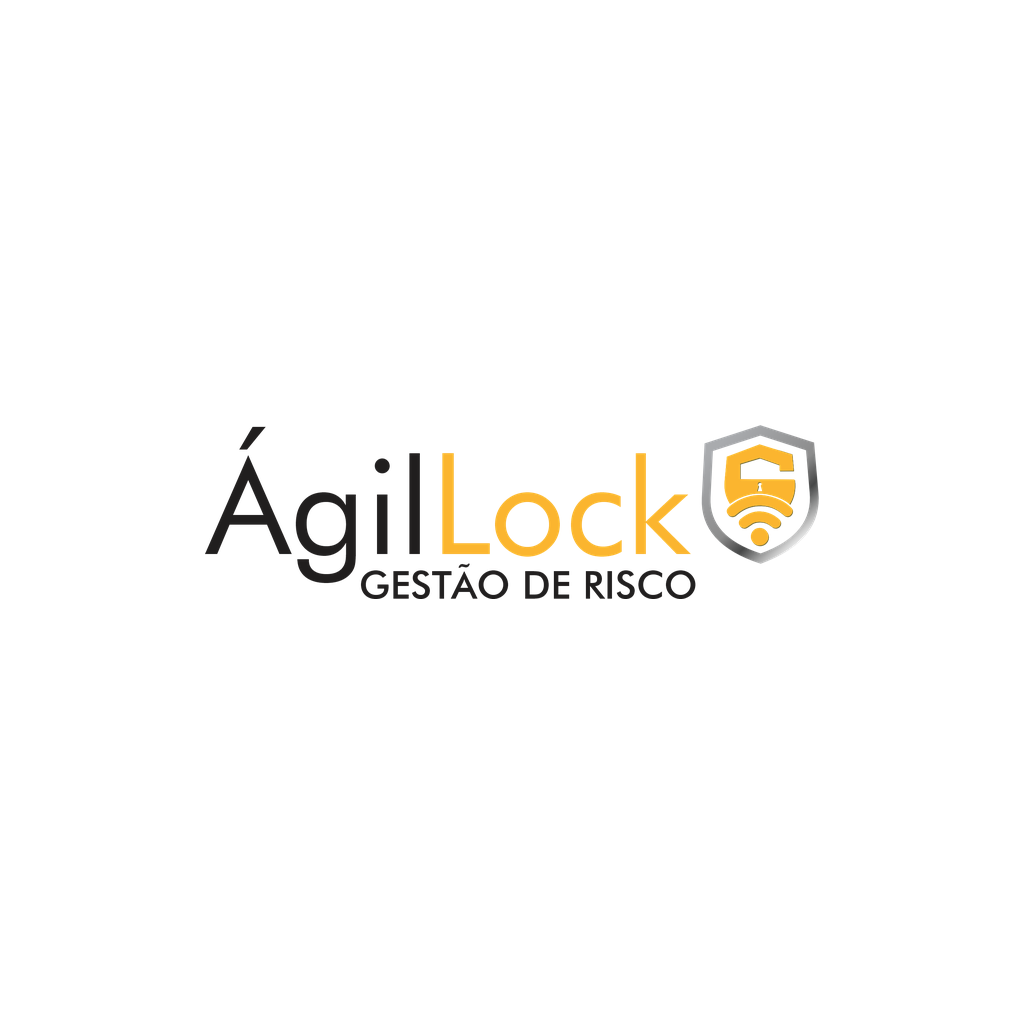
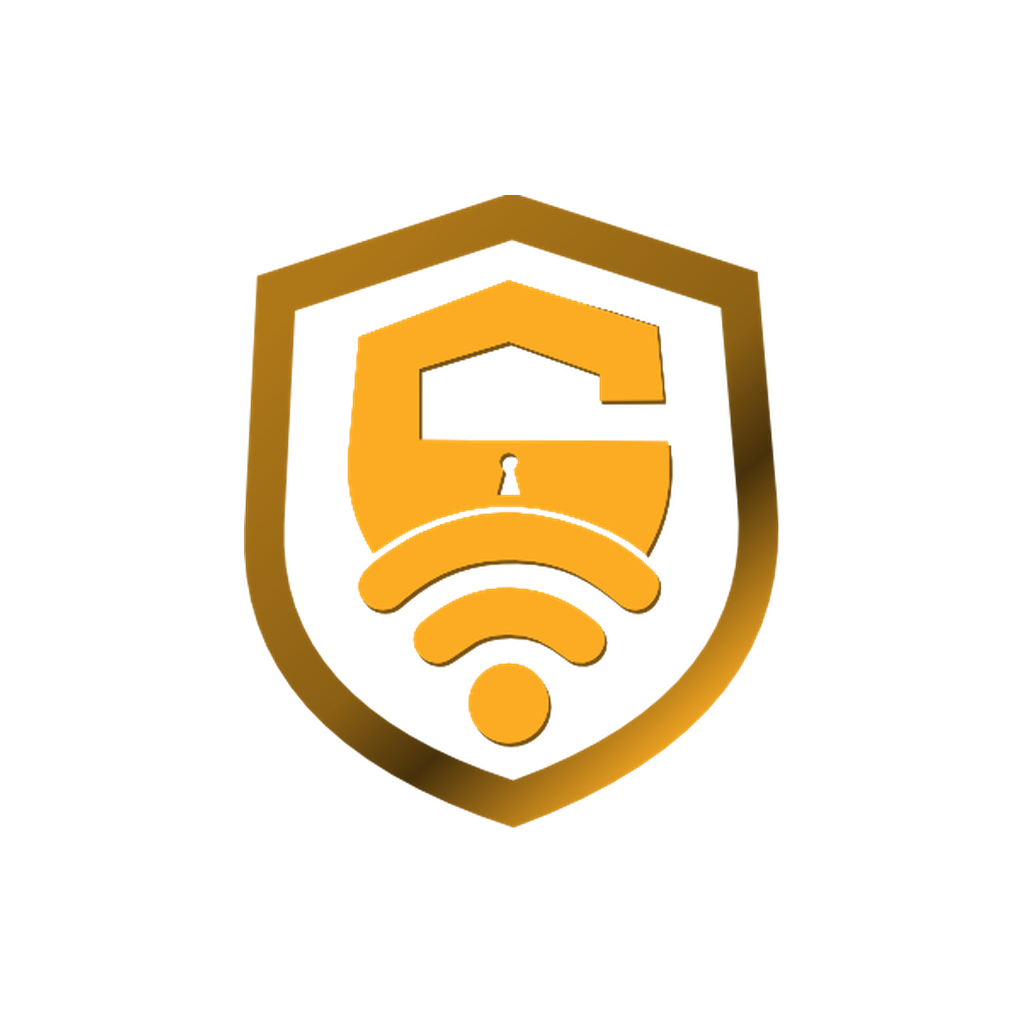
feat: Novo visual de marca - ícone escudo amarelo em preto, splash preta e notificação com escudo
- icon/adaptive-icon: emblema do escudo recolorido em amarelo (borda inclusa) em fundo preto
- splash: fundo preto com logo branco "ÁgilLock"
- notification-icon: silhueta branca do escudo
- favicon: escudo amarelo em fundo preto
- app.json: splash e adaptiveIcon backgroundColor para #000000
- scripts geradores atualizados

Changed region(s): [[0.1875, 0.1875, 0.8125, 0.8125]]

diff --git a/app/scripts/generate_icons.py b/app/scripts/generate_icons.py
@@ -1,6 +1,9 @@
 """
-Gera os assets do app (ícone, adaptive-icon, splash e favicon) a partir
-do logo da marca. Fundo branco, coerente com app.json.
+Gera os assets do app:
+- icon.png / adaptive-icon.png: emblema do escudo recolorido em amarelo
+  (borda inclusive) sobre fundo preto.
+- splash-icon.png: logo ÁgilLock completo (transparente, splash usa fundo branco).
+- favicon.png: símbolo (web).
 
 Uso: python scripts/generate_icons.py
 """
@@ -8,56 +11,76 @@ from PIL import Image
 import os
 
 ASSETS = os.path.join(os.path.dirname(__file__), "..", "assets")
-LOGO = os.path.join(ASSETS, "logo_agillock_new.png")      # Ágil(preto) + Lock(amarelo) + escudo
-SYMBOL = os.path.join(ASSETS, "agillock_new_symbol.png")  # só o escudo (quadrado)
+LOGO = os.path.join(ASSETS, "logo_agillock_new.png")            # Ágil(preto) + Lock(amarelo) — fundo claro
+LOGO_WHITE = os.path.join(ASSETS, "logo_agillock_white_new.png")  # Ágil(branco) + Lock(amarelo) — fundo escuro
+SYMBOL = os.path.join(ASSETS, "agillock_new_symbol.png")        # só o escudo (quadrado)
 
 WHITE = (255, 255, 255, 255)
+BLACK = (0, 0, 0, 255)
+# amarelo da marca #F5A623 em HSV (0-255): H=27, S=219
+AMBER_H, AMBER_S = 27, 219
 
 
 def trim(im):
-    """Recorta a área não-transparente."""
     bbox = im.split()[3].getbbox()
     return im.crop(bbox) if bbox else im
 
 
-def place_centered(canvas_size, content, target_w_ratio, bg=None):
-    """Cria um canvas quadrado e centraliza o content escalado por largura."""
-    W = canvas_size
-    base = Image.new("RGBA", (W, W), bg if bg else (0, 0, 0, 0))
-    target_w = int(W * target_w_ratio)
-    ratio = content.height / content.width
-    target_h = int(target_w * ratio)
-    resized = content.resize((target_w, target_h), Image.LANCZOS)
-    x = (W - target_w) // 2
-    y = (W - target_h) // 2
-    base.alpha_composite(resized, (x, y))
+def recolor_amber(im):
+    """Mantém o brilho (V) e troca tom/saturação para o amarelo -> a borda
+    prata do escudo vira amarela com o mesmo relevo."""
+    alpha = im.split()[3]
+    h, s, v = im.convert("RGB").convert("HSV").split()
+    rgb = Image.merge("HSV", (Image.new("L", im.size, AMBER_H),
+                              Image.new("L", im.size, AMBER_S), v)).convert("RGB")
+    out = rgb.convert("RGBA")
+    out.putalpha(alpha)
+    return out
+
+
+def place_by_width(canvas_px, content, w_ratio, bg=(0, 0, 0, 0)):
+    """Centraliza o content escalado pela largura."""
+    base = Image.new("RGBA", (canvas_px, canvas_px), bg)
+    tw = int(canvas_px * w_ratio)
+    th = int(tw * content.height / content.width)
+    base.alpha_composite(content.resize((tw, th), Image.LANCZOS),
+                         ((canvas_px - tw) // 2, (canvas_px - th) // 2))
+    return base
+
+
+def place_by_max(canvas_px, content, ratio, bg=(0, 0, 0, 0)):
+    """Centraliza o content cabendo numa caixa (escala pelo maior lado)."""
+    base = Image.new("RGBA", (canvas_px, canvas_px), bg)
+    box = int(canvas_px * ratio)
+    scale = min(box / content.width, box / content.height)
+    tw, th = int(content.width * scale), int(content.height * scale)
+    base.alpha_composite(content.resize((tw, th), Image.LANCZOS),
+                         ((canvas_px - tw) // 2, (canvas_px - th) // 2))
     return base
 
 
 def main():
-    logo = trim(Image.open(LOGO).convert("RGBA"))
+    logo_white = trim(Image.open(LOGO_WHITE).convert("RGBA"))
     symbol = trim(Image.open(SYMBOL).convert("RGBA"))
+    emblem = recolor_amber(symbol)
 
-    # 1) icon.png — 1024x1024, fundo branco (iOS exige opaco)
-    icon = place_centered(1024, logo, 0.82, bg=WHITE)
-    icon.convert("RGB").save(os.path.join(ASSETS, "icon.png"))
+    # 1) icon.png — fundo preto + emblema amarelo (iOS exige opaco)
+    place_by_max(1024, emblem, 0.78, bg=BLACK).convert("RGB").save(
+        os.path.join(ASSETS, "icon.png"))
     print("icon.png OK")
 
-    # 2) adaptive-icon.png — 1024x1024, foreground transparente dentro da
-    #    safe zone (~66%); backgroundColor (#ffffff) vem do app.json
-    adaptive = place_centered(1024, logo, 0.60)
-    adaptive.save(os.path.join(ASSETS, "adaptive-icon.png"))
+    # 2) adaptive-icon.png — emblema amarelo transparente dentro da safe zone;
+    #    backgroundColor (#000000) vem do app.json
+    place_by_max(1024, emblem, 0.62).save(os.path.join(ASSETS, "adaptive-icon.png"))
     print("adaptive-icon.png OK")
 
-    # 3) splash-icon.png — logo centralizado, transparente (splash usa
-    #    backgroundColor #ffffff + resizeMode contain)
-    splash = place_centered(1024, logo, 0.74)
-    splash.save(os.path.join(ASSETS, "splash-icon.png"))
+    # 3) splash-icon.png — logo branco (splash usa fundo PRETO + resizeMode contain)
+    place_by_width(1024, logo_white, 0.74).save(os.path.join(ASSETS, "splash-icon.png"))
     print("splash-icon.png OK")
 
-    # 4) favicon.png — web; usa o símbolo (quadrado fica melhor em tamanho mínimo)
-    favicon = place_centered(64, symbol, 0.82, bg=WHITE)
-    favicon.convert("RGB").save(os.path.join(ASSETS, "favicon.png"))
+    # 4) favicon.png — web; emblema amarelo em fundo preto (combina com o ícone)
+    place_by_max(64, emblem, 0.82, bg=BLACK).convert("RGB").save(
+        os.path.join(ASSETS, "favicon.png"))
     print("favicon.png OK")
 
 

diff --git a/app/scripts/generate_notification_icon.py b/app/scripts/generate_notification_icon.py
@@ -1,9 +1,10 @@
 """
-Gera o icone de notificacao do Android (notification-icon.png).
-Android usa apenas o canal alpha: a silhueta e desenhada em branco e
-tingida pela cor 'color' do expo-notifications. Por isso geramos so o
-nome 'AgilLock' (sem subtitulo e sem escudo) como silhueta branca
-sobre fundo transparente.
+Gera o ícone de notificação do Android (notification-icon.png).
+Android usa apenas o canal alpha: a silhueta é desenhada em branco e
+tingida pela cor 'color' do expo-notifications. Usamos o emblema do
+escudo como silhueta branca sobre fundo transparente -- os vãos internos
+(buraco da fechadura, arcos do wifi, campo entre borda e cadeado) ficam
+transparentes e preservam o desenho.
 
 Uso: python scripts/generate_notification_icon.py
 """
@@ -11,99 +12,28 @@ from PIL import Image
 import os
 
 ASSETS = os.path.join(os.path.dirname(__file__), "..", "assets")
-LOGO = os.path.join(ASSETS, "logo_agillock_new.png")
+SYMBOL = os.path.join(ASSETS, "agillock_new_symbol.png")
 OUT = os.path.join(ASSETS, "notification-icon.png")
 
 
+def trim(im):
+    bbox = im.split()[3].getbbox()
+    return im.crop(bbox) if bbox else im
+
+
 def main():
-    logo = Image.open(LOGO).convert("RGBA")
-    alpha = logo.split()[3]
-    W, H = logo.size
+    symbol = trim(Image.open(SYMBOL).convert("RGBA"))
 
-    # max alpha por coluna (sem numpy)
-    col_max = [0] * W
-    px = alpha.load()
-    for x in range(W):
-        m = 0
-        for y in range(0, H, 2):  # passo 2: rapido e suficiente
-            v = px[x, y]
-            if v > m:
-                m = v
-                if m == 255:
-                    break
-        col_max[x] = m
+    # silhueta branca a partir do alpha do emblema
+    white = Image.new("RGBA", symbol.size, (255, 255, 255, 0))
+    white.putalpha(symbol.split()[3])
 
-    # acha o maior vao transparente no terco direito (separa "Lock" do escudo)
-    search_start = int(W * 0.65)
-    best_len, best_start = 0, None
-    run_len, run_start = 0, None
-    for x in range(search_start, W):
-        if col_max[x] < 10:
-            if run_start is None:
-                run_start = x
-            run_len += 1
-            if run_len > best_len:
-                best_len, best_start = run_len, run_start
-        else:
-            run_len, run_start = 0, None
-    gap_x = best_start if best_start else W
-    print(f"corte do escudo em x={gap_x} (W={W})")
-
-    # recorta a regiao do texto (sem o escudo)
-    word = logo.crop((0, 0, gap_x, H))
-    wpx = word.load()
-    ww, wh = word.size
-
-    # mascara binaria de conteudo
-    THR = 30
-    solid = [[wpx[x, y][3] > THR for x in range(ww)] for y in range(wh)]
-
-    # flood-fill 8-conexo a partir do corpo da palavra (y < SEED_Y).
-    # O "g" e seu rabo estao conectados ao corpo -> mantidos.
-    # As letras do subtitulo "GESTAO DE RISCO" estao soltas -> removidas.
-    from collections import deque
-    SEED_Y = 335
-    keep = [[False] * ww for _ in range(wh)]
-    dq = deque()
-    for y in range(min(SEED_Y, wh)):
-        row = solid[y]
-        for x in range(ww):
-            if row[x]:
-                keep[y][x] = True
-                dq.append((x, y))
-    while dq:
-        x, y = dq.popleft()
-        for dx in (-1, 0, 1):
-            for dy in (-1, 0, 1):
-                nx, ny = x + dx, y + dy
-                if 0 <= nx < ww and 0 <= ny < wh and solid[ny][nx] and not keep[ny][nx]:
-                    keep[ny][nx] = True
-                    dq.append((nx, ny))
-
-    # zera tudo que nao foi alcancado (= subtitulo)
-    removed = 0
-    for y in range(wh):
-        kr = keep[y]
-        for x in range(ww):
-            if solid[y][x] and not kr[x]:
-                r, g, b, a = wpx[x, y]
-                wpx[x, y] = (r, g, b, 0)
-                removed += 1
-    print(f"pixels do subtitulo removidos: {removed}")
-
-    bbox = word.split()[3].getbbox()
-    word = word.crop(bbox)
-    print(f"palavra recortada: {word.size}")
-
-    # silhueta branca a partir do alpha
-    white = Image.new("RGBA", word.size, (255, 255, 255, 0))
-    white.putalpha(word.split()[3])
-
-    # canvas quadrado transparente com padding (conteudo ~84% da largura)
+    # canvas quadrado transparente, escala pelo maior lado (~84%)
     SIZE = 1024
     canvas = Image.new("RGBA", (SIZE, SIZE), (0, 0, 0, 0))
-    tw = int(SIZE * 0.84)
-    th = int(tw * white.height / white.width)
+    box = int(SIZE * 0.84)
+    scale = min(box / white.width, box / white.height)
+    tw, th = int(white.width * scale), int(white.height * scale)
     white = white.resize((tw, th), Image.LANCZOS)
     canvas.alpha_composite(white, ((SIZE - tw) // 2, (SIZE - th) // 2))
     canvas.save(OUT)
